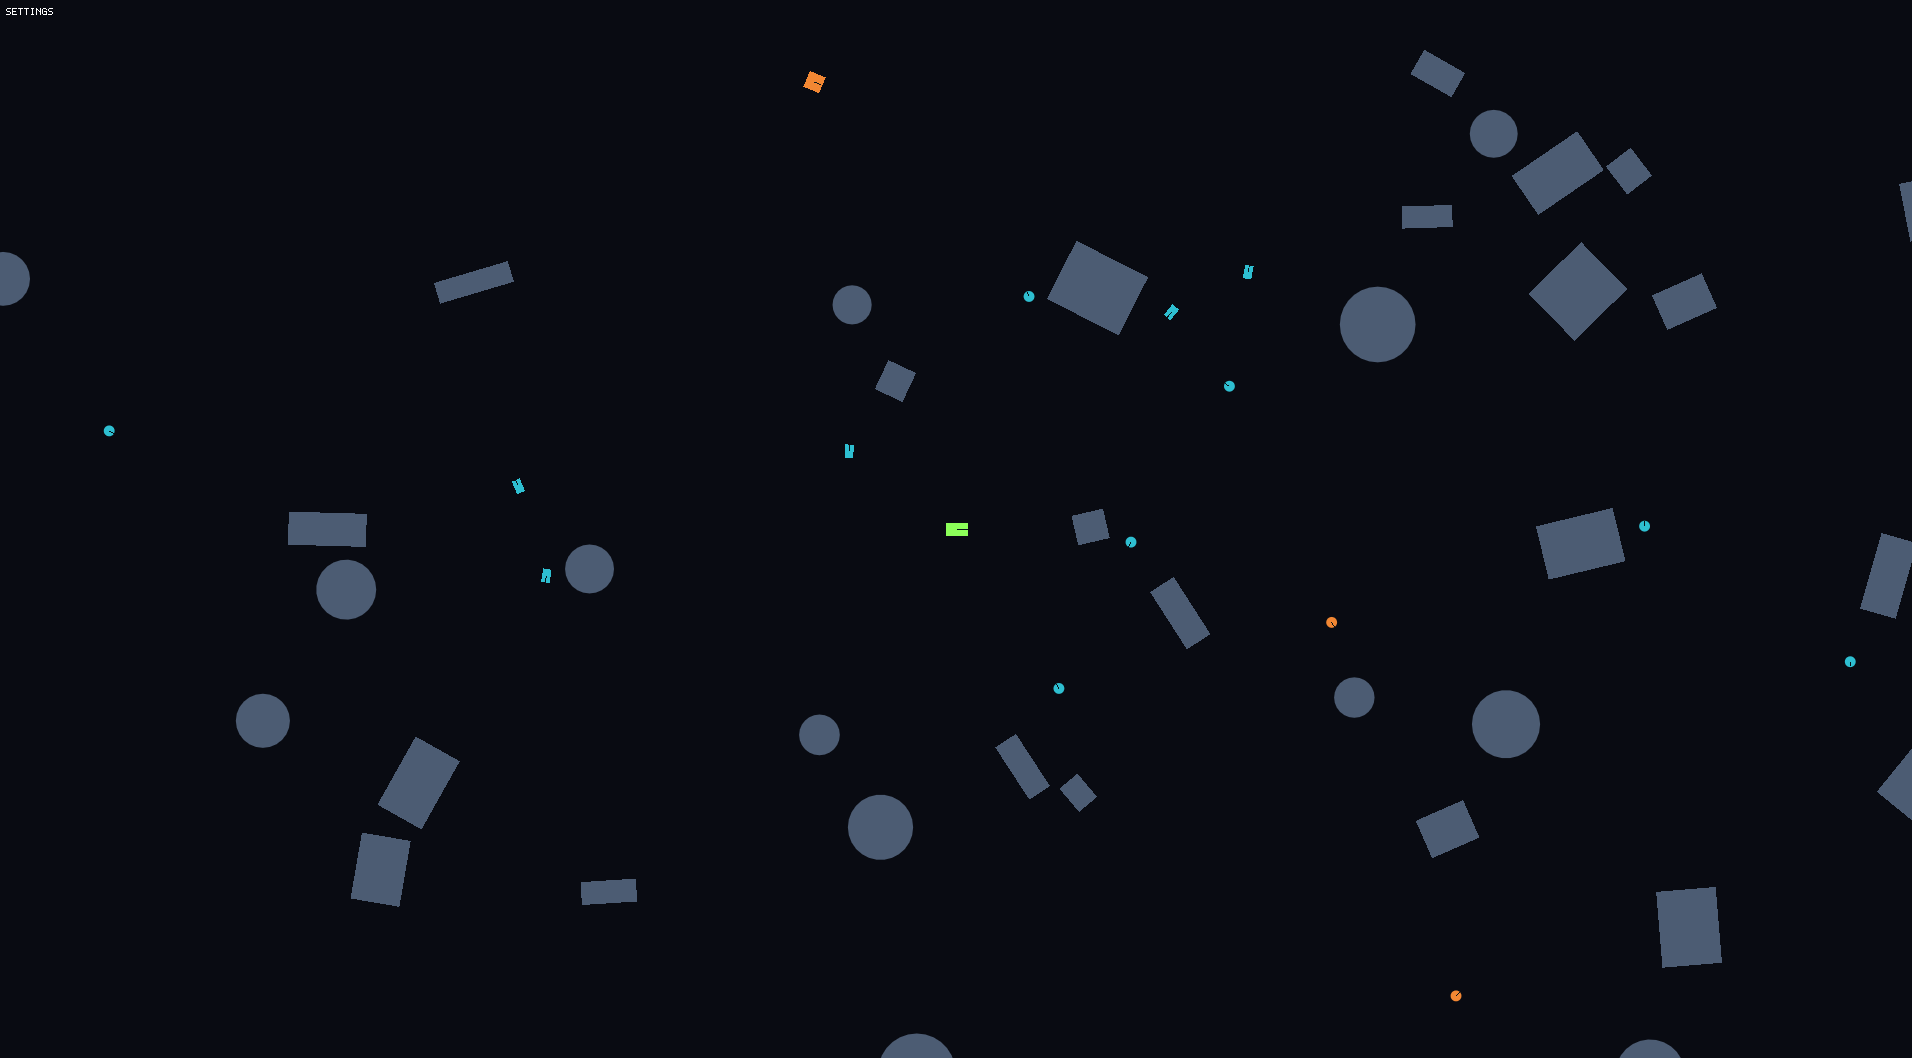
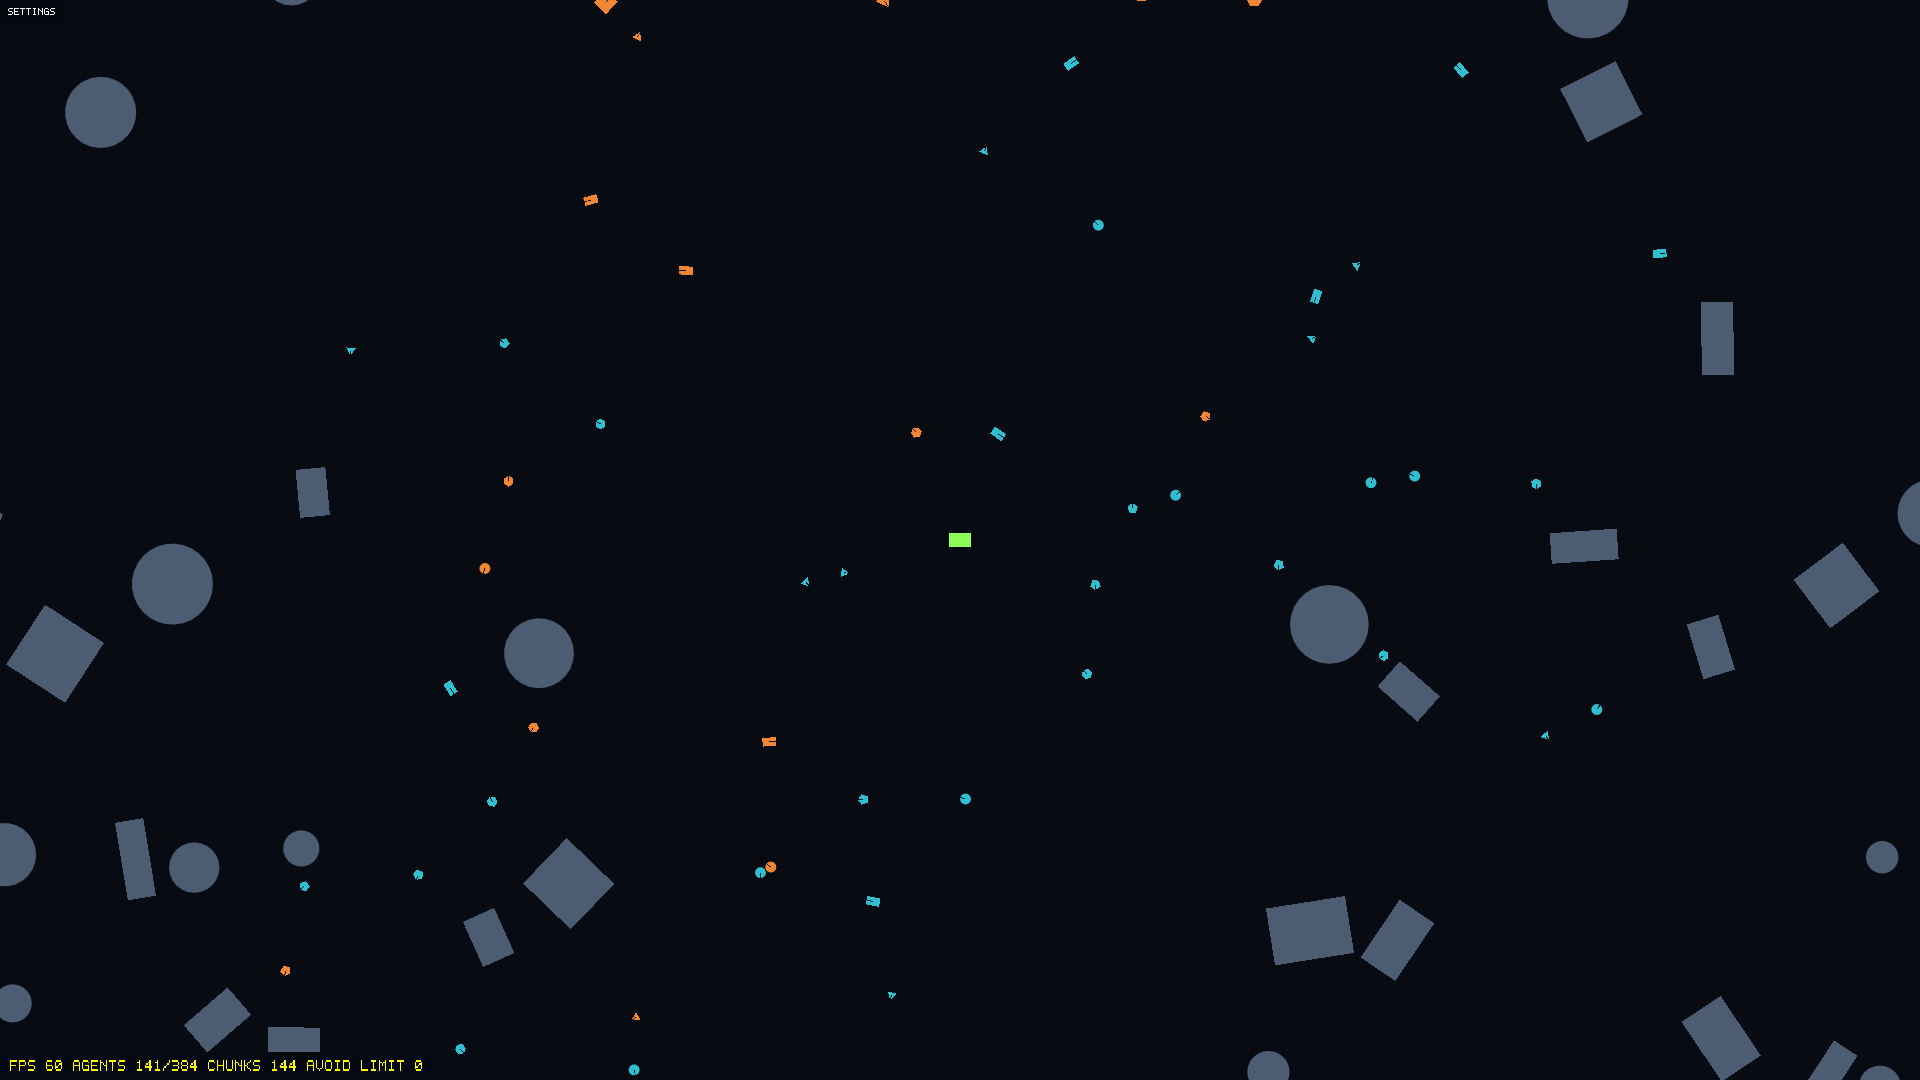
docs(media): refresh every screenshot and add six GIF clips
All screenshots are regenerated by kinetra_capture at 1920 x 1080, and
the gallery now plays a four-second GIF of the normal and the debug view
of Demo, Dotio and i4sim. The media guide describes how they are made.

diff --git a/docs/media/README.md b/docs/media/README.md
@@ -1,6 +1,6 @@
-# Screenshots and demo video
+# Screenshots, clips and demo video
 
-Real application captures used by the project's README gallery, what each one shows, and how to refresh them.
+Real application captures used by the project's README gallery, what each one shows, and how to refresh them. Every screenshot and clip comes from [`kinetra_capture`](../../tools/capture/README.md), which renders the real sessions offscreen with a fixed seed and scripted input.
 
 ## Table of contents
 
@@ -14,27 +14,34 @@ Real application captures used by the project's README gallery, what each one sh
 
 | Files | Contents |
 | --- | --- |
-| [launcher.png](launcher.png), [launcher-difficulty.png](launcher-difficulty.png) | Application menu and Dotio difficulty selection |
-| [launcher-loadscreen.png](launcher-loadscreen.png) | i4sim loadscreen with blueprint selection |
-| [demo.png](demo.png), [demo-debug.png](demo-debug.png) | Demo with debug layers disabled and enabled |
-| [dotio.png](dotio.png), [dotio-debug.png](dotio-debug.png) | Dotio with debug layers disabled and enabled |
-| [dotio-settings.png](dotio-settings.png) | Dotio settings with the simulation controls expanded |
-| [kinetra-lab-tour.mp4](kinetra-lab-tour.mp4) | Tour video: 2 min 14 s, H.264 at 1920 × 1080 and 60 fps, with an AAC audio track |
-| [i4sim.png](i4sim.png), [i4sim-debug.png](i4sim-debug.png) | i4sim with debug mode disabled and enabled |
+| [launcher.png](launcher.png), [launcher-difficulty.png](launcher-difficulty.png) | Application menu with DEMO highlighted, and the Dotio difficulty page with Medium |
+| [launcher-loadscreen.png](launcher-loadscreen.png) | i4sim loadscreen: the first catalog page, SHOWCASE highlighted |
+| [demo.png](demo.png), [demo-debug.png](demo-debug.png) | Demo with Debug Mode off, and on with the debug menu open and every visual layer |
+| [demo-clip.gif](demo-clip.gif), [demo-debug-clip.gif](demo-debug-clip.gif) | Demo: the player walks to two clicked points among the agents, in both views |
+| [dotio.png](dotio.png), [dotio-debug.png](dotio-debug.png) | Dotio gameplay, and Debug Mode with every visual row of the debug menu, zoomed out |
+| [dotio-settings.png](dotio-settings.png) | Dotio's settings panel with SIM CONTROLS expanded |
+| [dotio-clip.gif](dotio-clip.gif), [dotio-debug-clip.gif](dotio-debug-clip.gif) | Dotio: the player runs a square through the corridors and fires in bursts, in both views |
+| [i4sim.png](i4sim.png), [i4sim-debug.png](i4sim-debug.png) | i4sim `MAS-demonstrator` running, with Debug Mode off, and on with the LAYERS section, every part and its swatch |
+| [i4sim-clip.gif](i4sim-clip.gif), [i4sim-debug-clip.gif](i4sim-debug-clip.gif) | i4sim at 800 ticks per second, in both views; the debug clip shows the SIMULATION section |
+| [kinetra-lab-tour.mp4](kinetra-lab-tour.mp4) | Tour video: 2 min 14 s, H.264 at 1920 × 1080 and 60 fps, with an AAC audio track; recorded by hand |
 
 ## Capture details
 
-The PNG files are window captures of about 1915 × 1055 pixels; the exact size varies by a few pixels per file. Seeds and session options are not recorded, except what a capture shows on screen.
-
-- **Demo:** `demo-debug.png` has every visual layer enabled (vectors, steering probes, paths, collision shapes, active agents); its statistics show 71 of 193 agents active. The two Demo captures are not the same scene.
-- **Dotio:** `dotio-debug.png` has Debug Mode with vectors, AI states, paths and their filters, steering probes, collision shapes, active agents, hiding hits and Invulnerable enabled.
-- **i4sim:** both captures show the `MAS-demonstrator` blueprint (`MAS-demonstrator.json`), seed 42, paused at 200 UPS, at tick 83 (`i4sim.png`) and tick 116 (`i4sim-debug.png`, with the LAYERS section of the debug menu open and every layer and part on). `i4sim-debug.png` is rendered offscreen like the loadscreen below, at 1915 × 1055.
-- **i4sim loadscreen:** `launcher-loadscreen.png` shows the first catalog page with the SHOWCASE row first and highlighted, then `1680x960+` to `8640x4800`. Unlike the other captures it is not a window capture: it was rendered offscreen (`SDL_VIDEODRIVER=offscreen LIBGL_ALWAYS_SOFTWARE=1`) at 1915 × 1054 from a fresh i4sim session and read back with `glReadPixels`, so it has no window decoration and RGB instead of RGBA pixels.
+- **Rendering.** SDL's offscreen driver with software Mesa, read back with `glReadPixels`; no window decoration.
+- **Sizes.** Screenshots 1920 × 1080. Clips are rendered at 960 × 540, so the bitmap font stays sharp, and play at 15 frames per second for four seconds.
+- **Sessions.** Created as the bundled launcher creates them, with seed 42, 48 Demo agents and Dotio on Medium. Every step advances 1/60 s, so the statistics show 60 frames per second. Demo and Dotio run 2 s before a capture (Dotio 8 s, for its enemies to arrive), i4sim 20 s.
+- **GIFs.** One palette per clip without dithering, and only the changed rectangle per frame; about 2 MB for all six.
+- **Reproducibility.** A refresh gives the same files, except Dotio's: its AI still uses unseeded randomness ([quality roadmap](../design/2026-11-18-quality-roadmap.md)).
+- **What each script does** is in the [capture tool](../../tools/capture/README.md#how-it-works).
 
 ## Refreshing the media
 
-Rebuild the current checkout using the [root verification commands](../../README.md#tests-and-resources), then run the applications with the [Demo controls](../../labs/demo/README.md#controls), [Dotio controls](../../labs/dotio/README.md#launch-and-controls) and [i4sim controls](../../labs/i4sim/README.md#controls). The bundled launcher picks a new world seed per run and prints it (`World seed: …`); record it next to the capture.
+```sh
+cmake --preset graphics
+cmake --build --preset graphics --target kinetra_capture
+tools/capture/capture_media.sh
+```
 
-For i4sim, `./build/kinetra_i4sim --blueprint labs/i4sim/blueprints/MAS-demonstrator.json` opens the same blueprint directly with seed 42 (the default; `--seed N` changes it), paused. Without `--blueprint` it opens the loadscreen; inside the bundled launcher, choose i4sim.
+The script needs ffmpeg for the GIFs. It writes every PNG and GIF into this directory; `tools/capture/capture_media.sh build-graphics <scene>...` refreshes only some. Look at every refreshed file before committing it: a script that clicks a menu row by number shows the wrong row when the menu changes. Keep the filenames synchronized with the [README gallery](../../README.md#screenshots-and-demo).
 
-Keep filenames synchronized with the [README gallery](../../README.md#screenshots-and-demo). Encode video as H.264 with `yuv420p` and MP4 fast start for broad playback support.
+The tour video is not generated. Encode a new one as H.264 with `yuv420p` and MP4 fast start for broad playback support.

diff --git a/README.md b/README.md
@@ -53,19 +53,19 @@ See the [Labs overview](labs/README.md) for application sources and headless tes
 
 ## Screenshots and demo
 
-[Watch or download the tour](docs/media/kinetra-lab-tour.mp4) (MP4, 2 min 14 s, 1920 × 1080, 60 fps, 64 MB).
+| Application | Normal view | Debug view |
+| --- | --- | --- |
+| **Demo** | ![Demo: the player walks among physics agents](docs/media/demo-clip.gif) | ![Demo with steering probes, paths, vectors and collision shapes](docs/media/demo-debug-clip.gif) |
+| **Dotio** | ![Dotio: the player runs through the corridors and fires](docs/media/dotio-clip.gif) | ![Dotio with AI states, paths, probes and collision shapes](docs/media/dotio-debug-clip.gif) |
+| **i4sim** | ![i4sim: movers drive between the stations of the MAS demonstrator](docs/media/i4sim-clip.gif) | ![i4sim with debug layers and the debug menu](docs/media/i4sim-debug-clip.gif) |
 
 | Launcher | Dotio difficulty selection | i4sim loadscreen |
 | --- | --- | --- |
 | ![Launcher with Demo, Dotio and i4sim](docs/media/launcher.png) | ![Dotio difficulty selection with Medium selected](docs/media/launcher-difficulty.png) | ![i4sim loadscreen with blueprint selection](docs/media/launcher-loadscreen.png) |
 
-| Application | Normal view | Debug view |
-| --- | --- | --- |
-| **Demo** | ![Demo terrain, player and physics agents](docs/media/demo.png) | ![Demo with steering probes, paths, vectors and collision shapes](docs/media/demo-debug.png) |
-| **Dotio** | ![Dotio survival gameplay and player HUD](docs/media/dotio.png) | ![Dotio with AI states, paths, probes and collision shapes](docs/media/dotio-debug.png) |
-| **i4sim** | ![i4sim factory simulation](docs/media/i4sim.png) | ![i4sim factory simulation with debug mode enabled](docs/media/i4sim-debug.png) |
+Full-size screenshots: [Demo](docs/media/demo.png) and [debug](docs/media/demo-debug.png), [Dotio](docs/media/dotio.png), [debug](docs/media/dotio-debug.png) and [settings](docs/media/dotio-settings.png), [i4sim](docs/media/i4sim.png) and [debug](docs/media/i4sim-debug.png). [Watch or download the tour](docs/media/kinetra-lab-tour.mp4) (MP4, 2 min 14 s, 1920 × 1080, 60 fps, 64 MB).
 
-Demo and i4sim start with Debug Mode and all visual layers enabled; Dotio keeps debug opt-in. Open the menu with the DEBUG button or Backquote and toggle layers as needed. See the [Dotio settings screenshot](docs/media/dotio-settings.png) and [media guide](docs/media/README.md) for capture details.
+Demo and i4sim start with Debug Mode and all visual layers enabled; Dotio keeps debug opt-in. Open the menu with the DEBUG button or Backquote and toggle layers as needed. Every screenshot and clip is generated by the [capture tool](tools/capture/README.md); the [media guide](docs/media/README.md) has the details.
 
 ## Quick start
 

diff --git a/docs/README.md b/docs/README.md
@@ -49,5 +49,5 @@ flowchart TD
 - [Labs](../labs/README.md), [Demo](../labs/demo/README.md), [Dotio](../labs/dotio/README.md) and [i4sim](../labs/i4sim/README.md).
 - [Launcher](../launcher/README.md).
 - [Build and verification](../README.md#tests-and-resources).
-- [Screenshots and demo video](media/README.md) used by the project overview.
+- [Screenshots, clips and demo video](media/README.md) used by the project overview, and the [capture tool](../tools/capture/README.md) that generates them.
 - [Core architecture](../external/Kinetra/docs/architecture.md) for reusable engine contracts.
